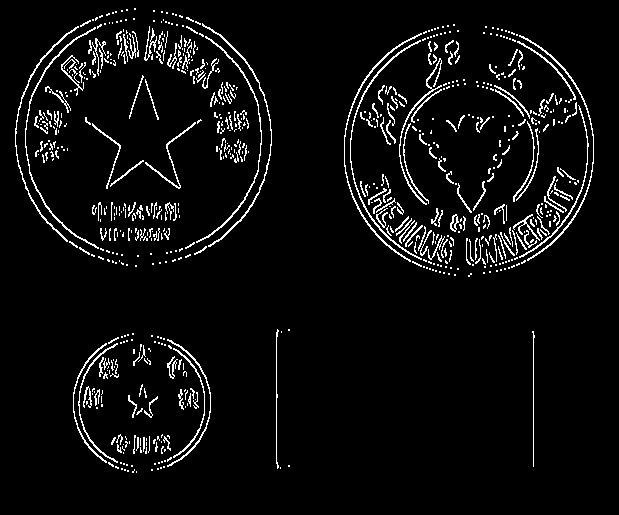
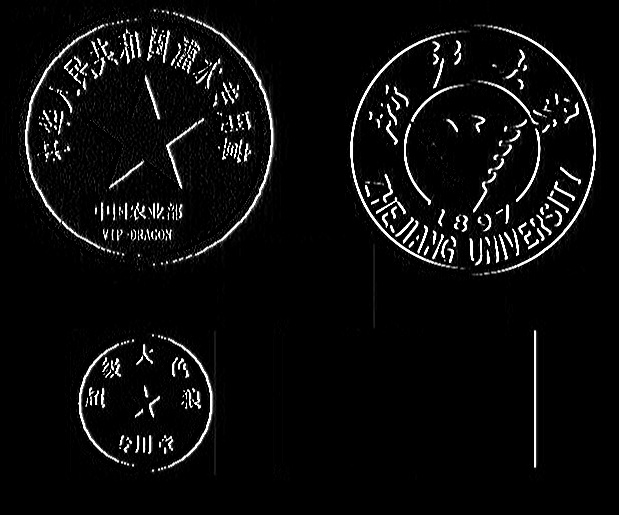
update main.py

diff --git a/作业2：直线与圆弧检测/main.py b/作业2：直线与圆弧检测/main.py
@@ -15,6 +15,9 @@ CENTER_COLOR = (255, 0, 0)
 class SuppressionMode(Enum):
     FOUR_CONN = 1
     EIGHT_CONN = 2
+    DOUBLE_EIGHT = 3  # 17*17
+    DOUBLE_SIXTEEN = 4  # 33*33
+    DOUBLE_THIRTY_SIX = 5  # 73*73
 
 
 def lineDetection(img: np.ndarray, edges: np.ndarray) -> None:
@@ -28,7 +31,7 @@ def lineDetection(img: np.ndarray, edges: np.ndarray) -> None:
                 rad = Util.rad(theta)
                 rho = round(x * math.cos(rad) + y * math.sin(rad))
                 accumMat[accumMat.shape[0] // 2 - rho][theta] += 1
-    accumMatForShow = generateAccumMatForShow(accumMat)
+    accumMatForShow = generateAccumMatForShow_line(accumMat)
     cv2.imwrite("Accum Mat for Line.jpg", accumMatForShow)
     pairList = pickPairs_line(accumMat, (img.shape[0], img.shape[1]), SuppressionMode.EIGHT_CONN)
     startPointList = []
@@ -57,20 +60,19 @@ def lineDetection(img: np.ndarray, edges: np.ndarray) -> None:
     cv2.imwrite("Img with Line.jpg", img)
 
 
-def centerDetection(img: np.ndarray, edges: np.ndarray) -> None:
-    accumMat = np.zeros(edges.shape, int)  # 圆心与边缘的距离大于图像本身尺度时舍弃
+def centerDetection(img: np.ndarray, gray: np.ndarray, edges: np.ndarray) -> None:
+    accumMat = np.zeros(gray.shape, int)  # 圆心与边缘的距离大于图像本身尺度时舍弃
     # 计算x、y方向的微分
-    sobelX = cv2.Sobel(edges, cv2.CV_64F, 1, 0)
-    sobelY = cv2.Sobel(edges, cv2.CV_64F, 0, 1)
+    sobelX = cv2.Sobel(gray, cv2.CV_64F, 1, 0, ksize=3)
+    sobelY = cv2.Sobel(gray, cv2.CV_64F, 0, 1, ksize=3)
     cv2.imwrite("Sobel X.jpg", sobelX)
     cv2.imwrite("Sobel Y.jpg", sobelY)
-    tanMat = np.zeros(edges.shape, float)
+    tanMat = np.zeros(gray.shape, float)
     for i in range(0, tanMat.shape[0]):
         for j in range(0, tanMat.shape[1]):
             if abs(sobelX[i][j]) < 1e-6 or abs(sobelY[i][j]) < 1e-6:
                 continue
             else:
-                # todo
                 tanMat[i][j] = sobelY[i][j] / sobelX[i][j]
     # 计算累加器矩阵
     for y in range(0, edges.shape[0]):
@@ -85,10 +87,12 @@ def centerDetection(img: np.ndarray, edges: np.ndarray) -> None:
                 if b < 0 or b >= accumMat.shape[0]:
                     continue
                 accumMat[b][a] += 1
-    accumMatForShow = generateAccumMatForShow(accumMat)
-    cv2.imwrite("Accum Mat for Center.jpg", accumMatForShow)
     # 筛选圆心
     pairList = pickPairs_center(accumMat, (img.shape[0], img.shape[1]), SuppressionMode.EIGHT_CONN)
+    # 生成用于展示的参数空间图像
+    accumMatForShow = generateAccumMatForShow_circle(accumMat, pairList)
+    cv2.imshow(WINDOW_NAME, accumMatForShow)
+    cv2.waitKey(0)
     # 标出圆心
     for i in range(0, len(pairList)):
         cv2.circle(img, pairList[i], 1, CENTER_COLOR, thickness=-1)  # thickness为负值时，填充圆形
@@ -110,14 +114,39 @@ def pickPairs_line(accumMat: np.ndarray, imgShape: tuple, mode: SuppressionMode)
 
 
 def pickPairs_center(accumMat: np.ndarray, imgShape: tuple, mode: SuppressionMode) -> list:
+    # 过小点和非极大值点抑制
+    tmpMat = np.array(accumMat)
     pairList = []
     T = min(imgShape[0], imgShape[1]) / 64 * math.pi
-    for a in range(0, accumMat.shape[1]):
-        for b in range(0, accumMat.shape[0]):
-            if accumMat[b][a] > T:
-                if isLocalMaxima(accumMat, b, a, mode):
-                    pairList.append((a, b))
+    for a in range(0, tmpMat.shape[1]):
+        for b in range(0, tmpMat.shape[0]):
+            if not tmpMat[b][a] > T:
+                tmpMat[b][a] = 0
+            else:
+                if not isLocalMaxima(tmpMat, b, a, mode):
+                    tmpMat[b][a] = 0
+    # 选出累加矩阵中若干个值最大的点
+    maxima = []
+    for a in range(0, tmpMat.shape[1]):
+        for b in range(0, tmpMat.shape[0]):
+            if tmpMat[b][a] == 0:
+                continue
+            maxima.append((tmpMat[b][a], (a, b)))  # maxima的元素为元组，每个元组内包含点的值以及点的坐标
+    maxima.sort(reverse=True)
+    nMaxima = min(20, len(maxima))
+    for i in range(0, nMaxima):
+        pairList.append(maxima[i][1])
     return pairList
+
+
+def generateAccumMatForShow_circle(accumMat: np.array, pairList: list) -> np.ndarray:
+    m = np.zeros(accumMat.shape, int)
+    for b in range(accumMat.shape[0]):
+        for a in range(0, accumMat.shape[1]):
+            if (a, b) not in pairList:
+                continue
+            m[b][a] = accumMat[b][a]
+    return generateAccumMatForShow_line(m)
 
 
 def isLocalMaxima(accumMat: np.ndarray, i: int, j: int, mode: SuppressionMode) -> bool:
@@ -132,7 +161,7 @@ def isLocalMaxima(accumMat: np.ndarray, i: int, j: int, mode: SuppressionMode) -
             if this < accumMat[i][j - 1]: flag = False
         if j < accumMat.shape[1] - 1:
             if this < accumMat[i][j + 1]: flag = False
-    else:
+    elif mode == SuppressionMode.EIGHT_CONN:
         if i > 0:
             if this < accumMat[i - 1][j]: flag = False
             if j > 0:
@@ -149,10 +178,14 @@ def isLocalMaxima(accumMat: np.ndarray, i: int, j: int, mode: SuppressionMode) -
             if this < accumMat[i][j - 1]: flag = False
         if j < accumMat.shape[1] - 1:
             if this < accumMat[i][j + 1]: flag = False
+    elif mode == SuppressionMode.DOUBLE_EIGHT:
+        if i < 8 or i > accumMat.shape[0] - 9 or j < 8 or j > accumMat.shape[1] - 9:
+            return False
+        # todo
     return flag
 
 
-def generateAccumMatForShow(accumMat: np.ndarray) -> np.ndarray:
+def generateAccumMatForShow_line(accumMat: np.ndarray) -> np.ndarray:
     MAX = np.max(accumMat)
     accumMatForShow = np.zeros(accumMat.shape, np.uint8)
     for i in range(0, accumMat.shape[0]):
@@ -166,8 +199,10 @@ def main() -> None:
     img = cv2.imread(IMG_PATH)
     edges = cv2.Canny(img, CANNY_T[0], CANNY_T[1])  # edges为二维数组，元素全为0或255
     cv2.imwrite("Edges.jpg", edges)
+    gray = cv2.cvtColor(img, cv2.COLOR_BGR2GRAY)
+    cv2.imwrite("Gray.jpg", gray)
     # lineDetection(img, edges)
-    centerDetection(img, edges)
+    centerDetection(img, gray, edges)
 
 
 main()

diff --git a/作业2：直线与圆弧检测/Idle.py b/作业2：直线与圆弧检测/Idle.py
@@ -1,0 +1,18 @@
+"""
+被闲置的函数
+"""
+import numpy as np
+from main import SuppressionMode
+from main import isLocalMaxima
+
+
+def centerEnhance(m: np.ndarray, mode: SuppressionMode) -> np.ndarray:
+    T = np.max(m) / 10
+    ret = np.array(m, int)
+    for i in range(0, ret.shape[0]):
+        for j in range(0, ret.shape[1]):
+            if ret[i][j] < T or not isLocalMaxima(ret, i, j, mode):
+                ret[i][j] = 0
+            else:
+                ret[i][j] *= 2
+    return ret
